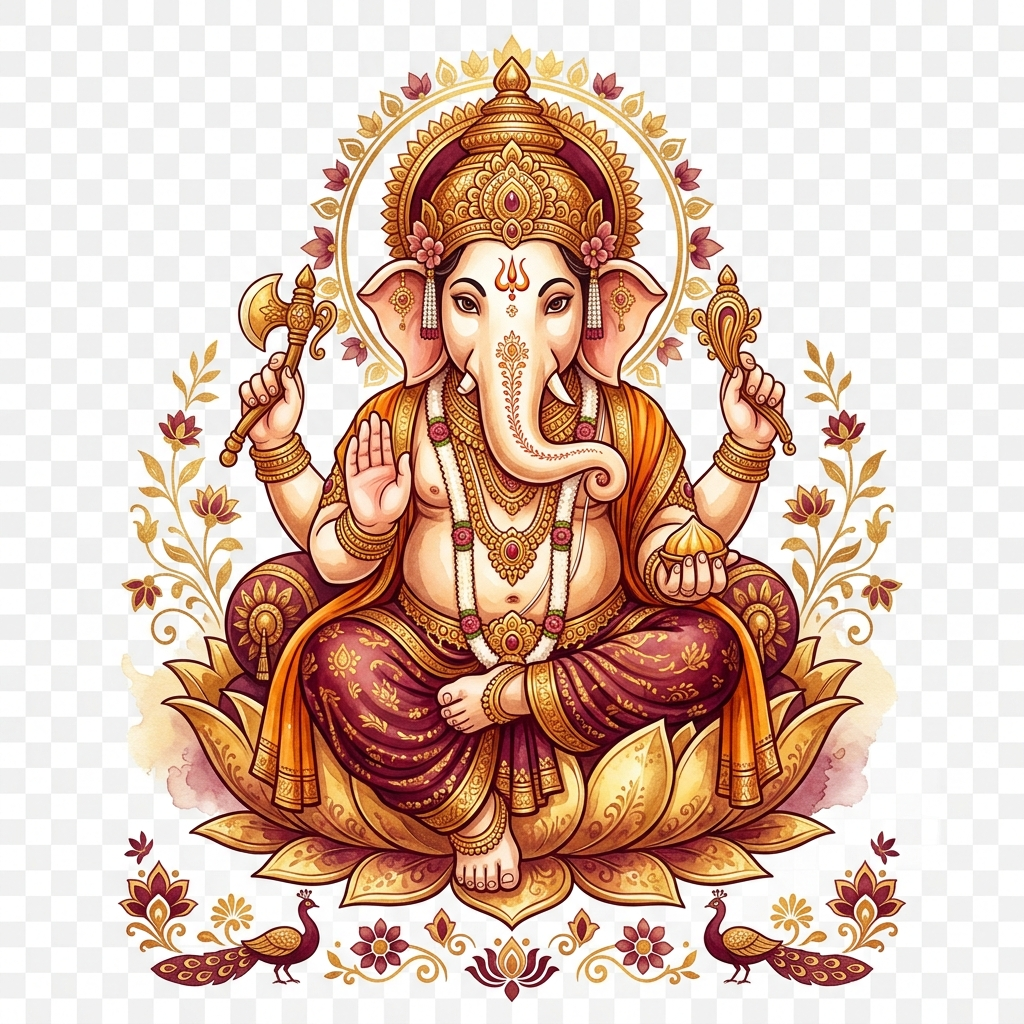
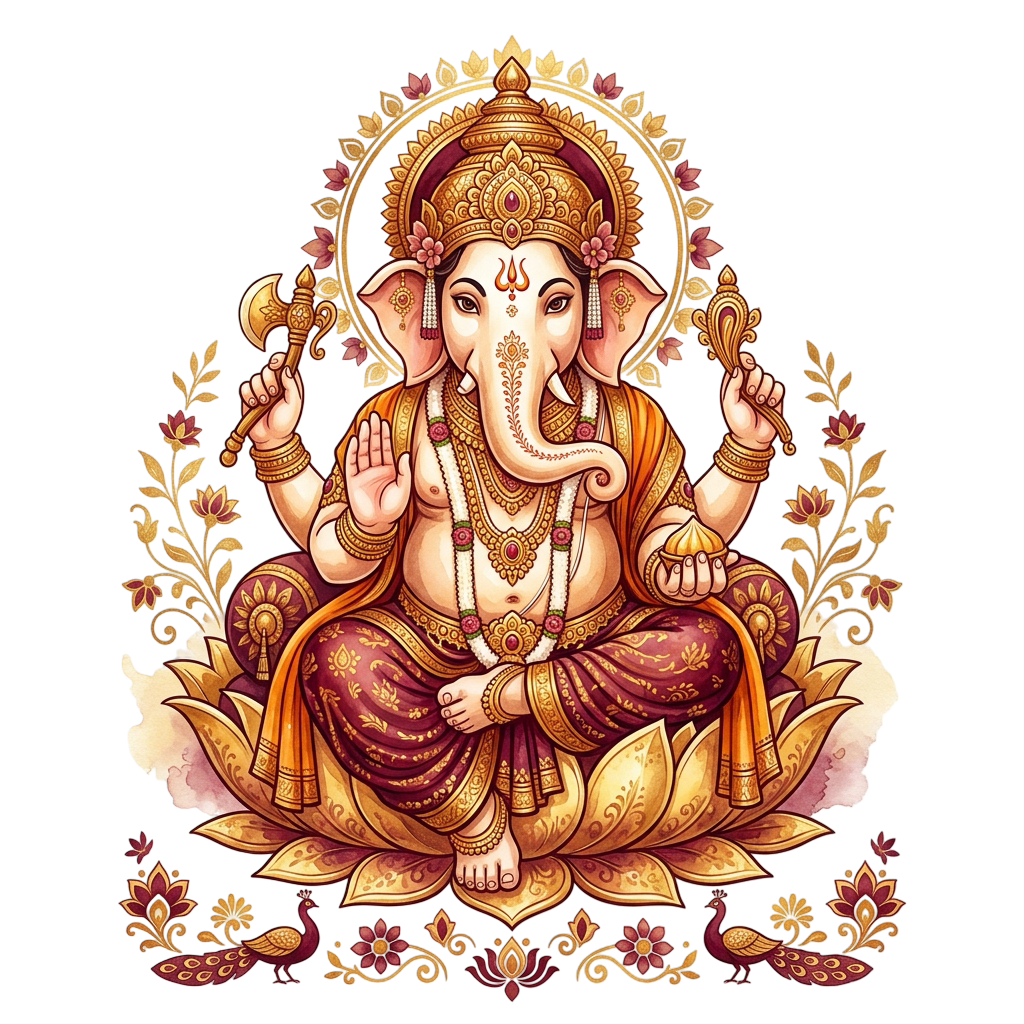
chore: update RSVP WhatsApp phone number

diff --git a/src/components/CountdownTimer.jsx b/src/components/CountdownTimer.jsx
@@ -1,0 +1,83 @@
+"use client";
+import React, { useState, useEffect } from "react";
+import { invitationData } from "../constants/data";
+
+export default function CountdownTimer() {
+  const [timeLeft, setTimeLeft] = useState({
+    days: 0,
+    hours: 0,
+    minutes: 0,
+    seconds: 0,
+    isCompleted: false
+  });
+
+  useEffect(() => {
+    const targetDate = new Date(invitationData.countdownTarget).getTime();
+
+    const calculateTime = () => {
+      const now = new Date().getTime();
+      const difference = targetDate - now;
+
+      if (difference <= 0) {
+        setTimeLeft({ days: 0, hours: 0, minutes: 0, seconds: 0, isCompleted: true });
+        return;
+      }
+
+      const days = Math.floor(difference / (1000 * 60 * 60 * 24));
+      const hours = Math.floor((difference % (1000 * 60 * 60 * 24)) / (1000 * 60 * 60));
+      const minutes = Math.floor((difference % (1000 * 60 * 60)) / (1000 * 60));
+      const seconds = Math.floor((difference % (1000 * 60)) / 1000);
+
+      setTimeLeft({ days, hours, minutes, seconds, isCompleted: false });
+    };
+
+    calculateTime();
+    const interval = setInterval(calculateTime, 1000);
+    return () => clearInterval(interval);
+  }, []);
+
+  if (timeLeft.isCompleted) {
+    return (
+      <div className="w-full text-center py-3 px-4 bg-gradient-to-r from-saffron/20 to-gold/20 border border-gold/40 rounded-xl mt-6 animate-pulse shadow-sm">
+        <p className="font-heading text-lg text-maroon font-bold">
+          ॐ मंगलमूर्ती मोरया! बाप्पांचे आगमन झाले आहे! 🌸
+        </p>
+      </div>
+    );
+  }
+
+  const timerItems = [
+    { label: "दिवस", value: timeLeft.days },
+    { label: "तास", value: timeLeft.hours },
+    { label: "मिनिटे", value: timeLeft.minutes },
+    { label: "सेकंद", value: timeLeft.seconds }
+  ];
+
+  return (
+    <div className="w-full bg-cream-dark/40 border border-gold/30 rounded-2xl p-4 mt-6 relative overflow-hidden shadow-inner text-center">
+      {/* Soft background mandala ornament */}
+      <div className="absolute inset-0 opacity-5 pointer-events-none mandala-pattern scale-150" />
+      
+      <p className="font-body text-[11px] text-saffron-dark tracking-widest uppercase font-bold mb-3 flex items-center justify-center gap-1.5">
+        <span className="w-1.5 h-1.5 rounded-full bg-gold animate-ping" />
+        प्राणप्रतिष्ठापना सोहळा वेळ
+      </p>
+
+      <div className="grid grid-cols-4 gap-2.5 relative z-10">
+        {timerItems.map((item, idx) => (
+          <div 
+            key={idx} 
+            className="flex flex-col items-center bg-gradient-to-b from-cream to-cream-dark/50 border border-gold/20 rounded-xl py-2 px-1 shadow-sm transition-all duration-300 hover:border-gold/50"
+          >
+            <span className="font-heading text-2xl md:text-3xl text-gradient bg-gradient-to-r from-maroon to-saffron font-bold tracking-tight">
+              {String(item.value).padStart(2, "0")}
+            </span>
+            <span className="font-body text-[9px] text-maroon-dark/70 font-semibold mt-1">
+              {item.label}
+            </span>
+          </div>
+        ))}
+      </div>
+    </div>
+  );
+}

diff --git a/src/components/MarigoldPetals.jsx b/src/components/MarigoldPetals.jsx
@@ -1,0 +1,61 @@
+"use client";
+import React, { useState, useEffect } from "react";
+
+export default function MarigoldPetals() {
+  const [isMounted, setIsMounted] = useState(false);
+  const [petals, setPetals] = useState([]);
+
+  useEffect(() => {
+    setIsMounted(true);
+    
+    // Generate petals configuration on mount to avoid SSR hydration mismatch
+    const generatedPetals = [...Array(15)].map((_, i) => {
+      const sizeClass = i % 3 === 0 
+        ? "w-2.5 h-4" 
+        : i % 3 === 1 
+          ? "w-3.5 h-5" 
+          : "w-3 h-4.5";
+      
+      const colorClass = i % 4 === 0 
+        ? "bg-gradient-to-b from-saffron to-saffron-dark" 
+        : i % 4 === 1 
+          ? "bg-gradient-to-b from-gold via-gold-light to-gold-dark" 
+          : i % 4 === 2 
+            ? "bg-gradient-to-b from-orange-500 to-saffron"
+            : "bg-gradient-to-b from-amber-500 to-amber-600";
+            
+      const shapeClass = i % 2 === 0 
+        ? "rounded-full rounded-tl-none rounded-br-none" 
+        : "rounded-full rounded-tr-none rounded-bl-none";
+
+      return {
+        id: i,
+        sizeClass,
+        colorClass,
+        shapeClass,
+        style: {
+          left: `${(i * 7) + 5}%`, // Even distribution across screen width with offset
+          animationDelay: `${(i * 0.9).toFixed(1)}s`,
+          animationDuration: `${(8 + (i % 5) * 2.2).toFixed(1)}s`,
+          opacity: 0.8
+        }
+      };
+    });
+
+    setPetals(generatedPetals);
+  }, []);
+
+  if (!isMounted) return null;
+
+  return (
+    <div className="absolute inset-0 pointer-events-none overflow-hidden z-25">
+      {petals.map((petal) => (
+        <div
+          key={petal.id}
+          className={`animate-petal shadow-[0_1px_4px_rgba(128,0,0,0.15)] ${petal.sizeClass} ${petal.colorClass} ${petal.shapeClass}`}
+          style={petal.style}
+        />
+      ))}
+    </div>
+  );
+}

diff --git a/src/constants/data.js b/src/constants/data.js
@@ -36,26 +36,29 @@ export const invitationData = {
     {
       id: 1,
       title: "श्री गणेश प्राणप्रतिष्ठापना",
-      date: "शनिवार, ५ सप्टेंबर २०२६",
-      time: "सकाळी ८:०० वाजता",
-      details: "वैदिक मंत्रोच्चारात आणि पारंपरिक उत्साहात बाप्पांची प्रतिष्ठापना.",
-      icon: "Ganpati"
+      date: "सोमवार, १४ सप्टेंबर २०२६",
+      time: "सकाळी ९:०० वाजता",
+      details: "बाप्पांचे मंगलमय आगमन, पूजा आणि प्राणप्रतिष्ठापना सोहळा.",
+      icon: "Ganesha",
+      calendarUrl: "https://calendar.google.com/calendar/render?action=TEMPLATE&text=श्री+गणेश+प्राणप्रतिष्ठापना+|+बर्गे+कुटुंब&dates=20260914T033000Z/20260914T060000Z&details=बाप्पांचे+मंगलमय+आगमन,+पूजा+आणि+प्राणप्रतिष्ठापना+सोहळा.&location=बर्गे+निवास,+घोडबंदर+रोड,+ठाणे+(पश्चिम)"
     },
     {
       id: 2,
-      title: "दैनिक आरती व भजन",
-      date: "५ ते ९ सप्टेंबर २०२६",
-      time: "दररोज संध्याकाळी ७:३० वाजता",
-      details: "आरती संग्रह, भजन व लहान मुलांचे अथर्वशीर्ष पठण.",
-      icon: "Aarti"
+      title: "आरती व महाप्रसाद",
+      date: "सोमवार, १४ सप्टेंबर २०२६",
+      time: "दुपारी १:०० वाजता आणि रात्री ८:०० वाजता",
+      details: "मध्यान्ह व संध्याकाळची आरती आणि महाप्रसाद दर्शन सोहळा.",
+      icon: "Aarti",
+      calendarUrl: "https://calendar.google.com/calendar/render?action=TEMPLATE&text=आरती+व+महाप्रसाद+|+बर्गे+कुटुंब&dates=20260914T073000Z/20260914T150000Z&details=मध्यान्ह+व+संध्याकाळची+आरती+आणि+महाप्रसाद+दर्शन+सोहळा.&location=बर्गे+निवास,+घोडबंदर+रोड,+ठाणे+(पश्चिम)"
     },
     {
       id: 3,
       title: "महाप्रसाद (भंडारा)",
-      date: "मंगळवार, ८ सप्टेंबर २०२६",
+      date: "शुक्रवार, १८ सप्टेंबर २०२६",
       time: "दुपारी १२:३० वाजता",
       details: "बाप्पांच्या नैवेद्यानंतर सर्व भाविकांसाठी महाप्रसादाचे आयोजन.",
-      icon: "Prasad"
+      icon: "Prasad",
+      calendarUrl: "https://calendar.google.com/calendar/render?action=TEMPLATE&text=महाप्रसाद+(भंडारा)+|+बर्गे+कुटुंब&dates=20260918T070000Z/20260918T103000Z&details=बाप्पांच्या+नैवेद्यानंतर+सर्व+भाविकांसाठी+महाप्रसादाचे+आयोजन.&location=बर्गे+निवास,+घोडबंदर+रोड,+ठाणे+(पश्चिम)"
     }
   ],
   
@@ -66,6 +69,8 @@ export const invitationData = {
     note: "मुख्य रस्त्यावरून ५ मिनिटांच्या अंतरावर."
   },
   
+  rsvpPhoneNumber: "919561042069",
+  countdownTarget: "2026-09-14T09:00:00",
   musicUrl: "/audio/Vakratunda Mahakaya-Gane.mp3",
   greetingText: "॥ गणपती बाप्पा मोरया, मंगलमूर्ती मोरया ॥"
 };

diff --git a/src/app/globals.css b/src/app/globals.css
@@ -133,3 +133,27 @@ body {
   -webkit-tap-highlight-color: transparent;
 }
 
+/* Custom keyframes for falling marigold petals */
+@keyframes petal-fall {
+  0% {
+    transform: translateY(-20px) rotate(0deg) translateX(0);
+    opacity: 0;
+  }
+  10% {
+    opacity: 0.8;
+  }
+  90% {
+    opacity: 0.8;
+  }
+  100% {
+    transform: translateY(105dvh) rotate(540deg) translateX(30px);
+    opacity: 0;
+  }
+}
+
+.animate-petal {
+  position: absolute;
+  animation: petal-fall linear infinite;
+  pointer-events: none;
+}
+

diff --git a/src/components/LocationCard.jsx b/src/components/LocationCard.jsx
@@ -146,6 +146,30 @@ export default function LocationCard() {
         )}
       </div>
 
+      {/* RSVP Section */}
+      <div className="mt-6 bg-cream border border-gold/30 rounded-xl p-4 text-center relative overflow-hidden shadow-sm flex flex-col items-center">
+        <div className="absolute inset-0 opacity-5 pointer-events-none mandala-pattern" />
+        <h4 className="font-heading text-lg text-maroon font-bold flex items-center gap-1.5 mb-1.5">
+          आर.एस.व्ही.पी (RSVP)
+        </h4>
+        <p className="font-body text-[11px] text-maroon-dark/80 max-w-xs mb-3">
+          आगमनाच्या सोयीसाठी व नियोजनासाठी आपण येत असल्याची माहिती कृपया खालील बटणावर क्लिक करून कळवावी.
+        </p>
+        <motion.a
+          href={`https://wa.me/${invitationData.rsvpPhoneNumber}?text=${encodeURIComponent("नमस्कार, आम्ही बर्गे कुटुंबाच्या गणेशोत्सवाला सहकुटुंब नक्की येत आहोत. सदस्य संख्या: [२]")}`}
+          target="_blank"
+          rel="noopener noreferrer"
+          whileHover={{ scale: 1.03 }}
+          whileTap={{ scale: 0.97 }}
+          className="inline-flex items-center gap-2 px-5 py-2.5 rounded-full bg-emerald-600 hover:bg-emerald-700 text-white font-body text-xs font-bold shadow-md hover:shadow-lg transition-all duration-300 cursor-pointer border border-emerald-500"
+        >
+          <svg className="w-4 h-4 fill-current shrink-0" viewBox="0 0 24 24">
+            <path d="M17.472 14.382c-.297-.149-1.758-.867-2.03-.967-.273-.099-.471-.148-.67.15-.197.297-.767.966-.94 1.164-.173.199-.347.223-.644.075-.297-.15-1.255-.463-2.39-1.475-.883-.788-1.48-1.761-1.653-2.059-.173-.297-.018-.458.13-.606.134-.133.298-.347.446-.52.149-.174.198-.298.298-.497.099-.198.05-.371-.025-.52-.075-.149-.669-1.612-.916-2.207-.242-.579-.487-.5-.669-.51-.173-.008-.371-.01-.57-.01-.198 0-.52.074-.792.372-.272.297-1.04 1.016-1.04 2.479 0 1.462 1.065 2.875 1.213 3.074.149.198 2.096 3.2 5.077 4.487.709.306 1.262.489 1.694.625.712.227 1.36.195 1.871.118.571-.085 1.758-.719 2.006-1.413.248-.694.248-1.289.173-1.413-.074-.124-.272-.198-.57-.347m-5.421 7.403h-.004a9.87 9.87 0 01-5.031-1.378l-.361-.214-3.741.982.998-3.648-.235-.374a9.86 9.86 0 01-1.51-5.26c.001-5.45 4.436-9.884 9.888-9.884 2.64 0 5.122 1.03 6.988 2.898a9.825 9.825 0 012.893 6.994c-.003 5.45-4.437 9.884-9.885 9.884m8.413-18.297A11.815 11.815 0 0012.05 0C5.495 0 .16 5.335.157 11.892c0 2.096.547 4.142 1.588 5.945L0 24l6.335-1.662c1.746.953 3.71 1.458 5.704 1.46h.005c6.554 0 11.89-5.335 11.893-11.893a11.821 11.821 0 00-3.48-8.413z" />
+          </svg>
+          आम्ही नक्की येत आहोत!
+        </motion.a>
+      </div>
+
       {/* Traditional Sign-off Message */}
       <div className="relative mt-6 flex flex-col items-center">
         <p className="font-body text-xs md:text-sm text-maroon-dark font-bold text-center italic max-w-xs leading-relaxed px-4 border-t border-dashed border-gold/30 pt-4 w-full">

diff --git a/src/components/EventTimeline.jsx b/src/components/EventTimeline.jsx
@@ -6,7 +6,8 @@ import {
   Sparkles, 
   Utensils, 
   Waves,
-  Sparkle
+  Sparkle,
+  Calendar
 } from "lucide-react";
 import { invitationData } from "../constants/data";
 
@@ -118,6 +119,19 @@ export default function EventTimeline() {
               <p className="font-body text-xs text-maroon-dark/85 mt-1 leading-relaxed">
                 {event.details}
               </p>
+              
+              {/* Add to Calendar Button */}
+              <div className="mt-3 flex justify-end">
+                <a 
+                  href={event.calendarUrl} 
+                  target="_blank" 
+                  rel="noopener noreferrer"
+                  className="inline-flex items-center gap-1 text-[10px] font-body font-bold text-gold-dark hover:text-saffron-dark bg-gold/5 hover:bg-gold/10 border border-gold/20 hover:border-gold/40 px-2.5 py-1 rounded-md transition-all duration-300 active:scale-95 shadow-sm"
+                >
+                  <Calendar className="w-3 h-3" />
+                  कॅलेंडरमध्ये जोडा
+                </a>
+              </div>
             </div>
           </motion.div>
         ))}

diff --git a/src/components/WelcomeSection.jsx b/src/components/WelcomeSection.jsx
@@ -4,6 +4,7 @@ import Image from "next/image";
 import { motion } from "framer-motion";
 import { Sparkles } from "lucide-react";
 import { invitationData } from "../constants/data";
+import CountdownTimer from "./CountdownTimer";
 
 // Sparkle configurations for floating background elements
 const sparkles = [
@@ -138,6 +139,11 @@ export default function WelcomeSection() {
       >
         {invitationData.welcomingNote}
       </motion.p>
+
+      {/* Countdown Timer */}
+      <motion.div variants={itemVariants} className="w-full px-6 z-10">
+        <CountdownTimer />
+      </motion.div>
 
       {/* Scroll Down Indicator */}
       <motion.div 

diff --git a/src/app/page.js b/src/app/page.js
@@ -6,6 +6,7 @@ import FamilyGrid from "../components/FamilyGrid";
 import EventTimeline from "../components/EventTimeline";
 import LocationCard from "../components/LocationCard";
 import BackgroundMusic from "../components/BackgroundMusic";
+import MarigoldPetals from "../components/MarigoldPetals";
 import { invitationData } from "../constants/data";
 
 export default function Home() {
@@ -90,6 +91,9 @@ export default function Home() {
         {/* Invitation Content Pages (Visible once curtains open) */}
         {isRevealed && (
           <div className="flex-1 flex flex-col relative z-10 w-full animate-fade-in-up">
+            
+            {/* Falling Marigold Petals background effect */}
+            <MarigoldPetals />
             
             {/* Hero Section */}
             <WelcomeSection />